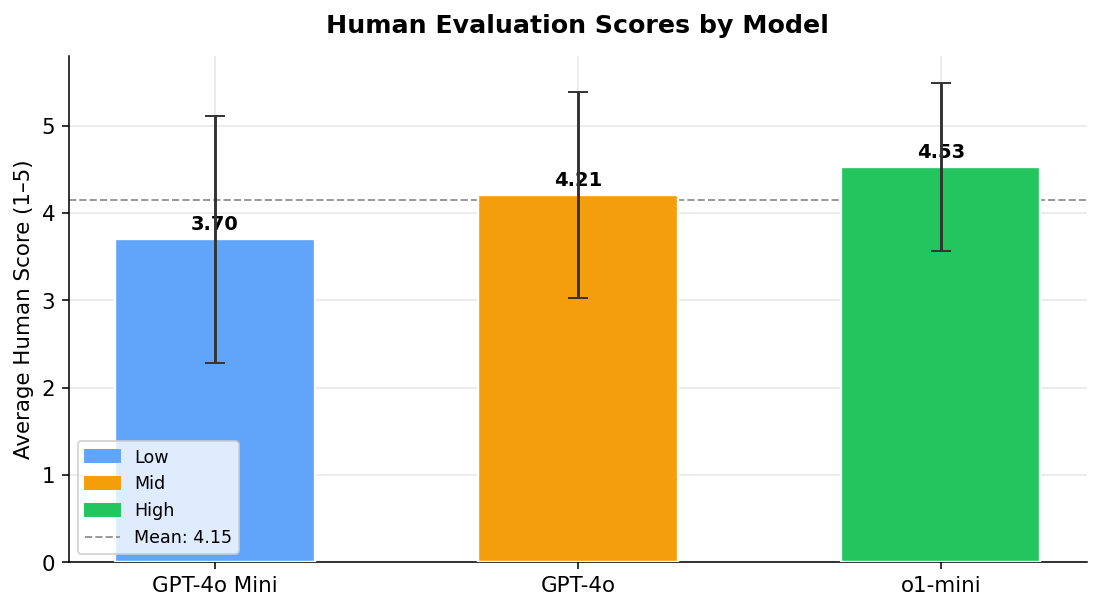
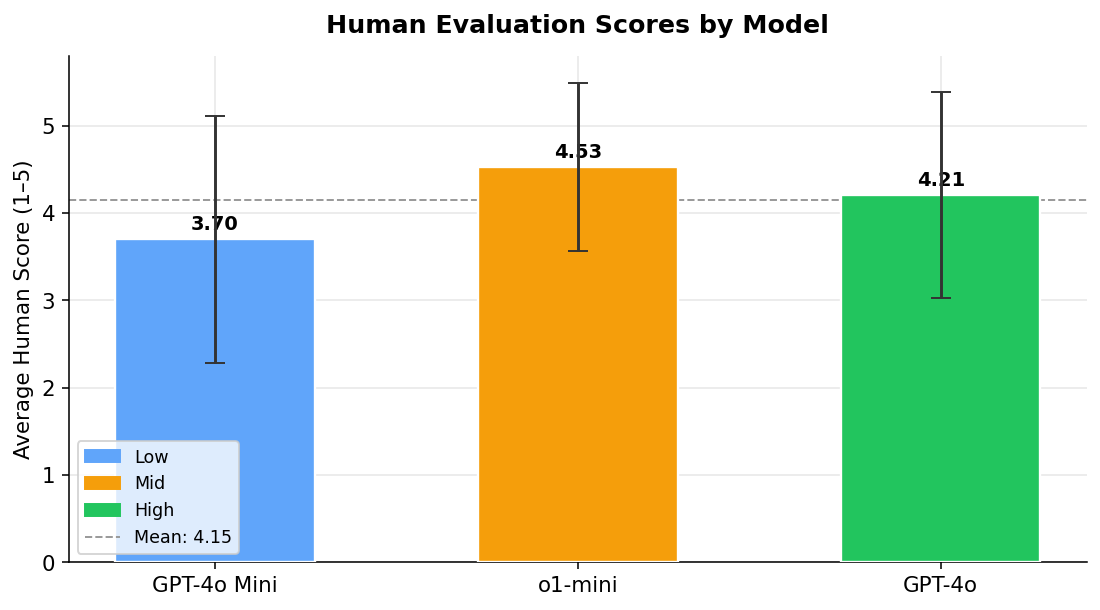
latest changes

diff --git a/evaluation/analyze_results.py b/evaluation/analyze_results.py
@@ -53,6 +53,16 @@ def load(path: str) -> pd.DataFrame:
     df = df[df["model_tier"].isin(TIER_ORDER)]
     for m in AUTO_METRICS:
         df[m] = pd.to_numeric(df[m], errors="coerce")
+
+    # ── Correct mislabelled tiers ──────────────────────────────────────────
+    TIER_REMAP = {
+        "gpt-4o":    "high",
+        "o1-mini":   "mid",
+        "gpt-4o-mini": "low",
+    }
+    df["model_tier"] = df["model_id"].str.lower().map(TIER_REMAP).fillna(df["model_tier"])
+    # ──────────────────────────────────────────────────────────────────────
+
     return df
 
 
